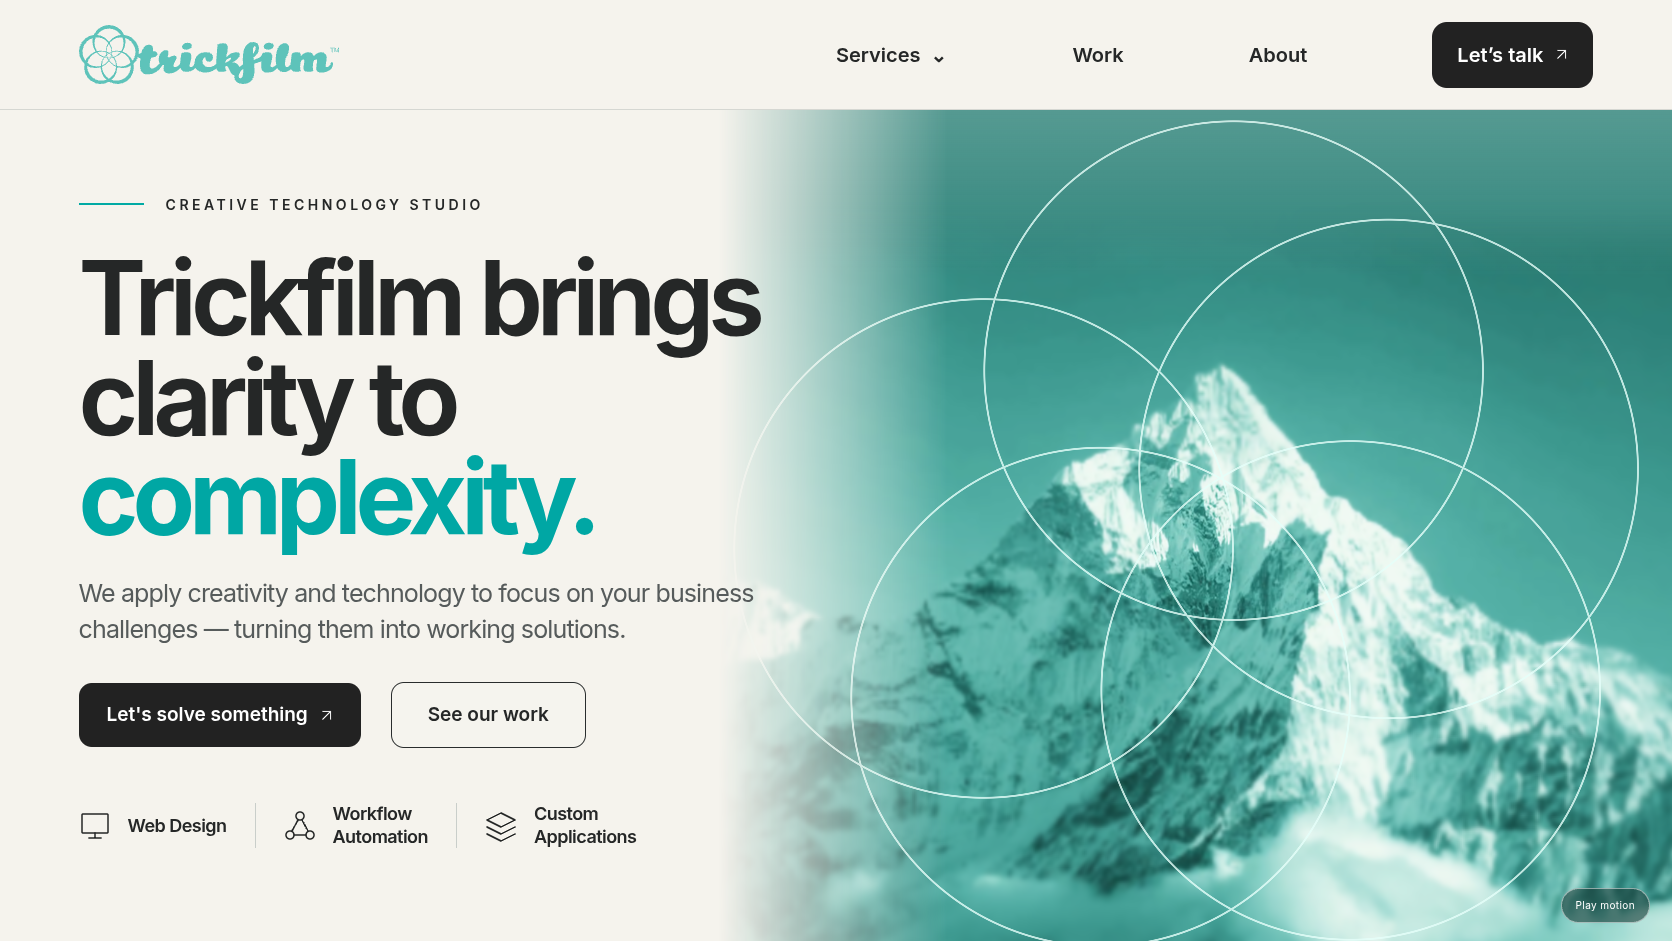
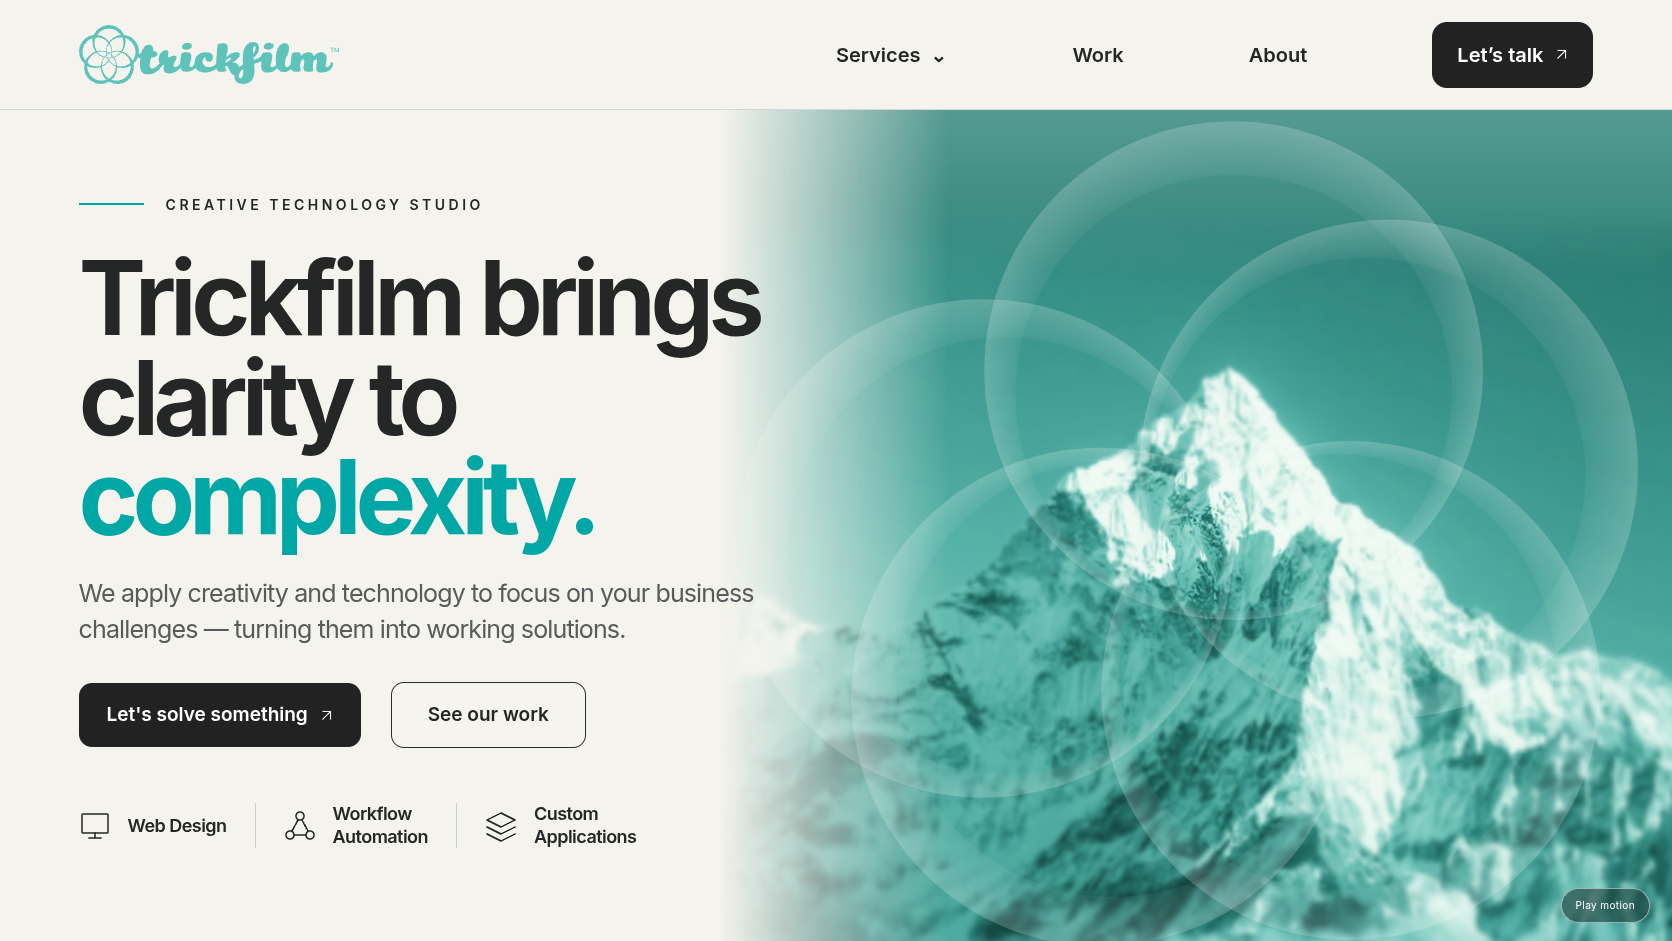
Use supplied tapered SVG lenses with translucent white gradients

Changed region(s): [[0.4665, 0.1233, 1.0, 1.0], [0.9019, 0.5239, 0.933, 0.5855], [0.4665, 0.8937, 0.4976, 0.9245]]

diff --git a/src/components/mountain.tsx b/src/components/mountain.tsx
@@ -1,6 +1,14 @@
 "use client";
-import { useEffect, useRef, useState, useSyncExternalStore } from "react";
-import { convergence, lensGeometry } from "@/lib/lenses";
+import {
+  useEffect,
+  useRef,
+  useState,
+  useSyncExternalStore,
+  useId,
+} from "react";
+import { convergence, lensGeometry, lensApertures } from "@/lib/lenses";
+
+import { lensArtwork } from "@/lib/lens-artwork";
 
 const gaussianSampling = `
  vec4 color=vec4(0.0);float total=0.0;
@@ -29,8 +37,8 @@ uniform vec3 circles[5];
 varying vec2 uv;
 void main(){
  vec2 p=vec2(uv.x,1.0-uv.y)*resolution;
- float count=0.0;float edge=0.0;
- for(int i=0;i<5;i++){float d=distance(p,circles[i].xy);count+=1.0-smoothstep(circles[i].z-0.7,circles[i].z+0.7,d);edge=max(edge,1.0-smoothstep(.55,1.4,abs(d-circles[i].z)));}
+ float count=0.0;
+ for(int i=0;i<5;i++){float d=distance(p,circles[i].xy);count+=1.0-smoothstep(circles[i].z-0.7,circles[i].z+0.7,d);}
  vec2 ratio=resolution/source;
  vec2 crop=ratio/max(ratio.x,ratio.y);
  vec2 st=(uv-.5)*crop+.5;
@@ -42,7 +50,7 @@ void main(){
  // Averaging the top edge avoids stretching clouds into vertical streaks.
  vec4 picture=color/total;
  if(st.y>.94){vec4 sky=(texture2D(frame,vec2(.2,.995))+texture2D(frame,vec2(.5,.995))+texture2D(frame,vec2(.8,.995)))/3.0;picture=mix(picture,sky,smoothstep(.94,1.04,st.y));}
- gl_FragColor=mix(picture,vec4(.9,1.,.98,1.),edge*.8);
+ gl_FragColor=picture;
 }`;
 }
 const subscribeMotion = (callback: () => void) => {
@@ -52,6 +60,9 @@ const subscribeMotion = (callback: () => void) => {
 };
 export function Mountain() {
   const canvas = useRef<HTMLCanvasElement>(null);
+  const outlineSvg = useRef<SVGSVGElement>(null);
+  const outlinePaths = useRef<(SVGPathElement | null)[]>([]);
+  const gradientId = `trickfilm-lens-${useId().replaceAll(":", "")}`;
   const region = useRef<HTMLDivElement>(null);
   const [paused, setPaused] = useState(false);
   const reduced = useSyncExternalStore(
@@ -192,6 +203,7 @@ export function Mountain() {
         el.width = w;
         el.height = h;
         gl.viewport(0, 0, w, h);
+        outlineSvg.current?.setAttribute("viewBox", `0 0 ${w} ${h}`);
       }
       const hero = host.closest("section")!.getBoundingClientRect();
       const progress = media.matches ? 1 : convergence(hero.top, hero.height);
@@ -204,6 +216,15 @@ export function Mountain() {
         progress,
         media.matches || pauseRef.current ? 0 : now / 1000,
       );
+      const apertures = lensApertures(circles);
+      circles.forEach(([x, y, radius], i) => {
+        const art = lensArtwork[i];
+        const scale = radius / (art.width / 2);
+        outlinePaths.current[i]?.setAttribute(
+          "transform",
+          `translate(${x - (art.width / 2) * scale} ${y - (art.height / 2) * scale}) scale(${scale})`,
+        );
+      });
       gl.uniform2f(uniforms.resolution, w, h);
       gl.uniform2f(uniforms.texel, 1 / staging.width, 1 / staging.height);
       gl.uniform2f(
@@ -215,7 +236,7 @@ export function Mountain() {
           ? image.videoHeight
           : image.naturalHeight,
       );
-      gl.uniform3fv(uniforms["circles[0]"], new Float32Array(circles.flat()));
+      gl.uniform3fv(uniforms["circles[0]"], new Float32Array(apertures.flat()));
       try {
         if (mipmaps && stage) {
           stage.drawImage(image, 0, 0, staging.width, staging.height);
@@ -263,6 +284,44 @@ export function Mountain() {
       aria-label="A turquoise mountain coming into focus through five overlapping lenses"
     >
       <canvas ref={canvas} aria-hidden="true" />
+      <svg
+        ref={outlineSvg}
+        className="lens-outlines"
+        viewBox="0 0 445 435"
+        preserveAspectRatio="none"
+        aria-hidden="true"
+        focusable="false"
+      >
+        <defs>
+          {lensArtwork.map((art, i) => (
+            <radialGradient
+              key={art.name}
+              id={`${gradientId}-${i}`}
+              gradientUnits="userSpaceOnUse"
+              cx={art.width / 2}
+              cy={art.height / 2}
+              r={art.width / 2}
+              fx={art.aperture.x}
+              fy={art.aperture.y}
+              fr={art.aperture.radius}
+            >
+              <stop offset="0" stopColor="white" stopOpacity="0.05" />
+              <stop offset="1" stopColor="white" stopOpacity="0.20" />
+            </radialGradient>
+          ))}
+        </defs>
+        {lensArtwork.map((art, i) => (
+          <path
+            key={art.name}
+            data-lens={art.name}
+            ref={(node) => {
+              outlinePaths.current[i] = node;
+            }}
+            d={art.path}
+            fill={`url(#${gradientId}-${i})`}
+          />
+        ))}
+      </svg>
       {!reduced && (
         <button
           className="motion-control"

diff --git a/src/lib/lens-artwork.ts b/src/lib/lens-artwork.ts
@@ -1,0 +1,59 @@
+// Original path data from the five supplied SVGs, clockwise from the top.
+// Apertures are the circular cutouts in those paths, not the outer ring bounds.
+export const lensArtwork = [
+  {
+    name: "top",
+    width: 245.97,
+    height: 245.97,
+    path: "M122.98,0C55.06,0,0,55.06,0,122.98s55.06,122.98,122.98,122.98,122.98-55.06,122.98-122.98S190.91,0,122.98,0ZM122.98,241.7c-59.43,0-107.61-48.18-107.61-107.61S63.55,26.48,122.98,26.48s107.61,48.18,107.61,107.61-48.18,107.61-107.61,107.61Z",
+    aperture: {
+      x: 122.98,
+      y: 134.09,
+      radius: 107.61,
+    },
+  },
+  {
+    name: "upper-right",
+    width: 246.03,
+    height: 246.04,
+    path: "M239.98,85.01C218.99,20.42,149.61-14.94,85.01,6.05,20.41,27.04-14.94,96.42,6.05,161.02c20.99,64.6,90.37,99.95,154.97,78.96,64.6-20.99,99.95-90.37,78.96-154.97ZM10.11,159.7C-8.25,103.18,22.68,42.47,79.2,24.1c56.52-18.37,117.23,12.57,135.6,69.09,18.37,56.52-12.57,117.23-69.09,135.6-56.52,18.37-117.23-12.57-135.6-69.09Z",
+    aperture: {
+      x: 112.455,
+      y: 126.445,
+      radius: 107.61,
+    },
+  },
+  {
+    name: "lower-right",
+    width: 245.99,
+    height: 245.99,
+    path: "M195.28,222.49c54.95-39.92,67.13-116.83,27.21-171.78C182.57-4.25,105.66-16.43,50.7,23.5-4.25,63.42-16.43,140.33,23.5,195.28c39.92,54.95,116.83,67.13,171.78,27.21ZM53.21,26.95C101.3-7.98,168.59,2.68,203.53,50.76s24.27,115.38-23.81,150.31c-48.08,34.93-115.38,24.27-150.31-23.81C-5.53,129.18,5.13,61.88,53.21,26.95Z",
+    aperture: {
+      x: 116.47,
+      y: 114.01,
+      radius: 107.61,
+    },
+  },
+  {
+    name: "lower-left",
+    width: 245.99,
+    height: 245.99,
+    path: "M50.7,222.49c54.95,39.92,131.86,27.74,171.78-27.21,39.92-54.95,27.74-131.86-27.21-171.79C140.33-16.43,63.42-4.25,23.5,50.7-16.43,105.66-4.25,182.57,50.7,222.49ZM192.77,26.95c48.08,34.93,58.74,102.23,23.81,150.31-34.93,48.08-102.23,58.74-150.31,23.81C18.19,166.14,7.53,98.84,42.46,50.76,77.39,2.68,144.69-7.98,192.77,26.95Z",
+    aperture: {
+      x: 129.52,
+      y: 114.01,
+      radius: 107.61,
+    },
+  },
+  {
+    name: "upper-left",
+    width: 246.03,
+    height: 246.04,
+    path: "M6.05,85.01c-20.99,64.6,14.36,133.98,78.96,154.97s133.98-14.36,154.97-78.96c20.99-64.6-14.36-133.98-78.96-154.97C96.42-14.94,27.04,20.42,6.05,85.01ZM235.92,159.7c-18.37,56.52-79.08,87.46-135.6,69.09C43.8,210.43,12.87,149.72,31.23,93.19,49.6,36.67,110.31,5.74,166.83,24.1c56.52,18.37,87.46,79.08,69.09,135.6Z",
+    aperture: {
+      x: 133.575,
+      y: 126.445,
+      radius: 107.61,
+    },
+  },
+] as const;

diff --git a/tests/browser/home.spec.ts b/tests/browser/home.spec.ts
@@ -216,3 +216,44 @@ test("mobile motion uses only the optimized uploaded mobile video", async ({
   await expect.poll(() => sources.size).toBe(1);
   expect([...sources]).toEqual(["/media/summit-mobile.mp4"]);
 });
+
+test("native lens paths preserve the supplied tapered openings", async ({
+  page,
+}) => {
+  await page.emulateMedia({ reducedMotion: "reduce" });
+  await page.goto("/");
+  await expect(page.locator(".mountain canvas")).toHaveCSS("opacity", "1");
+  await expect(page.locator(".lens-outlines")).toHaveCSS("opacity", "1");
+  const paths = page.locator(".lens-outlines path[data-lens]");
+  await expect(paths).toHaveCount(5);
+  const apertures = [
+    { x: 122.98, y: 134.09, radius: 107.61 },
+    { x: 112.455, y: 126.445, radius: 107.61 },
+    { x: 116.47, y: 114.01, radius: 107.61 },
+    { x: 129.52, y: 114.01, radius: 107.61 },
+    { x: 133.575, y: 126.445, radius: 107.61 },
+  ];
+  for (let i = 0; i < 5; i++) {
+    const aligned = await paths.nth(i).evaluate((node, hole) => {
+      const path = node as SVGGeometryElement;
+      for (let j = 0; j < 16; j++) {
+        const angle = (j * Math.PI) / 8;
+        const inside = new DOMPoint(
+          hole.x + Math.cos(angle) * (hole.radius - 0.25),
+          hole.y + Math.sin(angle) * (hole.radius - 0.25),
+        );
+        const border = new DOMPoint(
+          hole.x + Math.cos(angle) * (hole.radius + 0.25),
+          hole.y + Math.sin(angle) * (hole.radius + 0.25),
+        );
+        if (path.isPointInFill(inside) || !path.isPointInFill(border))
+          return false;
+      }
+      return true;
+    }, apertures[i]);
+    expect(aligned).toBe(true);
+  }
+  await page
+    .locator(".mountain")
+    .screenshot({ path: "/workspace/work/lens-artwork.png" });
+});

diff --git a/src/lib/lenses.ts b/src/lib/lenses.ts
@@ -1,3 +1,4 @@
+import { lensArtwork } from "./lens-artwork.ts";
 export const centers = [
   [222.48, 122.98],
   [321.98, 195.3],
@@ -15,7 +16,7 @@ export function lensGeometry(
   progress: number,
   time: number,
 ) {
-  const scale = Math.min((width * 0.78) / 445, (height * 0.60) / 435);
+  const scale = Math.min((width * 0.78) / 445, (height * 0.6) / 435);
   const rest = [
     [0.54, 0.31],
     [0.7, 0.43],
@@ -40,4 +41,17 @@ export function lensGeometry(
 export function overlapCount(x: number, y: number, circles: number[][]) {
   return circles.filter(([cx, cy, r]) => (x - cx) ** 2 + (y - cy) ** 2 <= r * r)
     .length;
+}
+
+/** Map the artwork's inset, offset openings with the same transforms as its paths. */
+export function lensApertures(outlines: number[][]) {
+  return outlines.map(([x, y, radius], i) => {
+    const art = lensArtwork[i];
+    const scale = radius / (art.width / 2);
+    return [
+      x + (art.aperture.x - art.width / 2) * scale,
+      y + (art.aperture.y - art.height / 2) * scale,
+      art.aperture.radius * scale,
+    ];
+  });
 }

diff --git a/tests/lenses.test.ts b/tests/lenses.test.ts
@@ -1,6 +1,11 @@
 import { test } from "node:test";
 import assert from "node:assert/strict";
-import { convergence, lensGeometry, overlapCount } from "../src/lib/lenses.ts";
+import {
+  convergence,
+  lensGeometry,
+  lensApertures,
+  overlapCount,
+} from "../src/lib/lenses.ts";
 test("overlap levels count each lens independently", () => {
   const circles = Array.from({ length: 5 }, (_, i) => [i * 20, 0, 95]);
   for (let n = 0; n <= 5; n++) {
@@ -15,7 +20,7 @@ test("scroll convergence clamps and reverses", () => {
 });
 test("final geometry has five circles covering central summit and no time drift", () => {
   const a = lensGeometry(960, 500, 1, 0);
-  assert.equal(overlapCount(960 * 0.53, 500 * 0.31, a), 5);
+  assert.equal(overlapCount(960 * 0.53, 500 * 0.31, lensApertures(a)), 5);
   assert.deepEqual(a, lensGeometry(960, 500, 1, 100));
   assert.notDeepEqual(
     lensGeometry(960, 500, 0, 0),

diff --git a/src/app/globals.css b/src/app/globals.css
@@ -1735,3 +1735,18 @@ html {
     font-size: 14px;
   }
 }
+
+/* Native vector paths retain the supplied mark's tapered, offset contours. */
+.lens-outlines {
+  position: absolute;
+  inset: 0;
+  width: 100%;
+  height: 100%;
+  z-index: 1;
+  pointer-events: none;
+  opacity: 0;
+  overflow: hidden;
+}
+.mountain[data-ready="true"] .lens-outlines {
+  opacity: 1;
+}

diff --git a/README.md b/README.md
@@ -20,11 +20,13 @@ Use the Vercel Next.js preset. No environment variables, database, or backend se
 
 ## Hero
 
-One detached HTML video decodes a single selected source. Each frame supplies one WebGL texture and its synchronized blur pyramid. A fragment shader counts all five circles at each pixel. Overlaps 0–5 produce clarity values 0%, 20%, 40%, 60%, 80%, 100%; the blur radius decreases linearly. Only a subpixel edge is softened. The outlines use the exact same geometry as the focus calculation.
+One detached HTML video decodes a single selected source. Each frame supplies one WebGL texture and its synchronized blur pyramid. A fragment shader counts all five circles at each pixel. Overlaps 0–5 produce clarity values 0%, 20%, 40%, 60%, 80%, 100%; the blur radius decreases linearly. Only a subpixel edge is softened. The focus boundaries use the circular inner openings of the supplied artwork, mapped with the same transforms as the visible rims.
 
 Power-of-two staging textures preserve source detail. Explicit-LOD sampling uses a small Gaussian kernel over the synchronized mipmap pyramid; older contexts use a direct Gaussian kernel. Five-circle overlap samples the fully sharp frame. No separately decoded video layers or single sharp-mask approximation are used.
 
-The supplied SVG determines final circle positions and radius proportions. The circles drift by a few pixels at rest and converge reversibly with ordinary scrolling. There is no hero pinning or scroll snapping. The summit composition is fixed for the supplied clip, rather than object-tracked.
+The five user-supplied, clockwise SVG paths define the visible tapered rims. They render as native vectors, not uniform shader strokes. Each uses an offset radial gradient from white at 20% opacity on the outer boundary to white at 5% opacity on its inner opening. Original files are preserved unchanged in `public/brand/lenses`; their path data and aperture measurements live in `src/lib/lens-artwork.ts`. Browser checks sample both sides of each SVG opening to validate the focus geometry.
+
+The supplied logo determines final circle positions and radius proportions. The circles drift by a few pixels at rest and converge reversibly with ordinary scrolling. There is no hero pinning or scroll snapping. The summit composition is fixed for the supplied clip, rather than object-tracked.
 
 Rendering is limited to 30 fps and 1280 pixels wide on desktop, 640 pixels on smaller screens, with a bounded device-pixel ratio. Video pauses outside the viewport and in hidden documents. User pause stops video and drift. Reduced motion uses the static poster and final geometry, without requesting video. A CSS poster remains available without JavaScript or WebGL.
 
